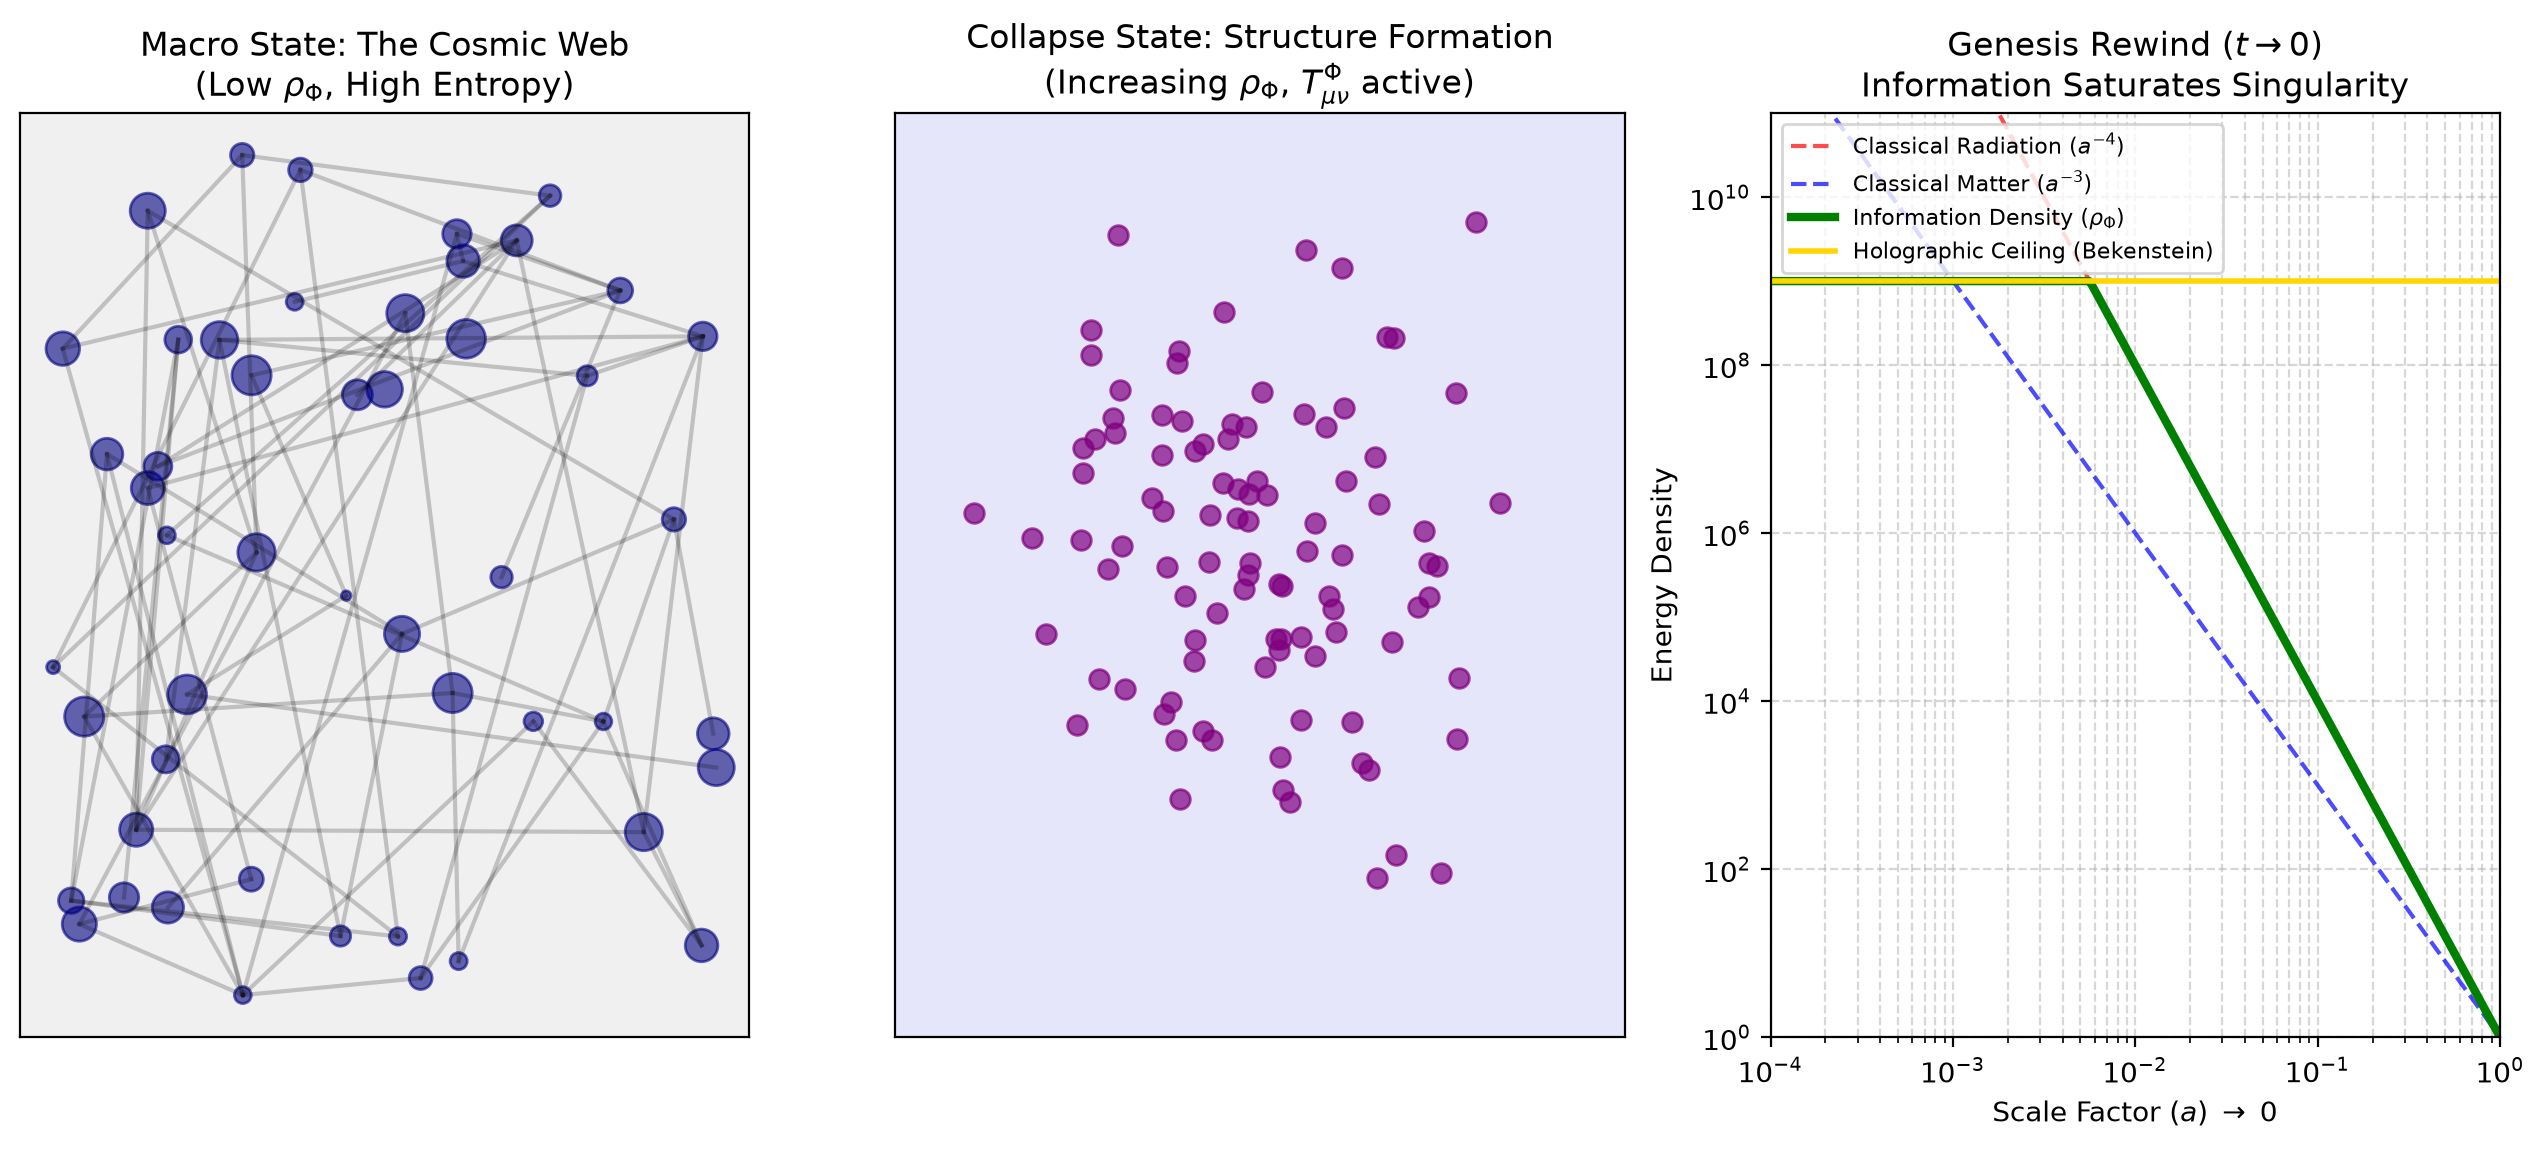
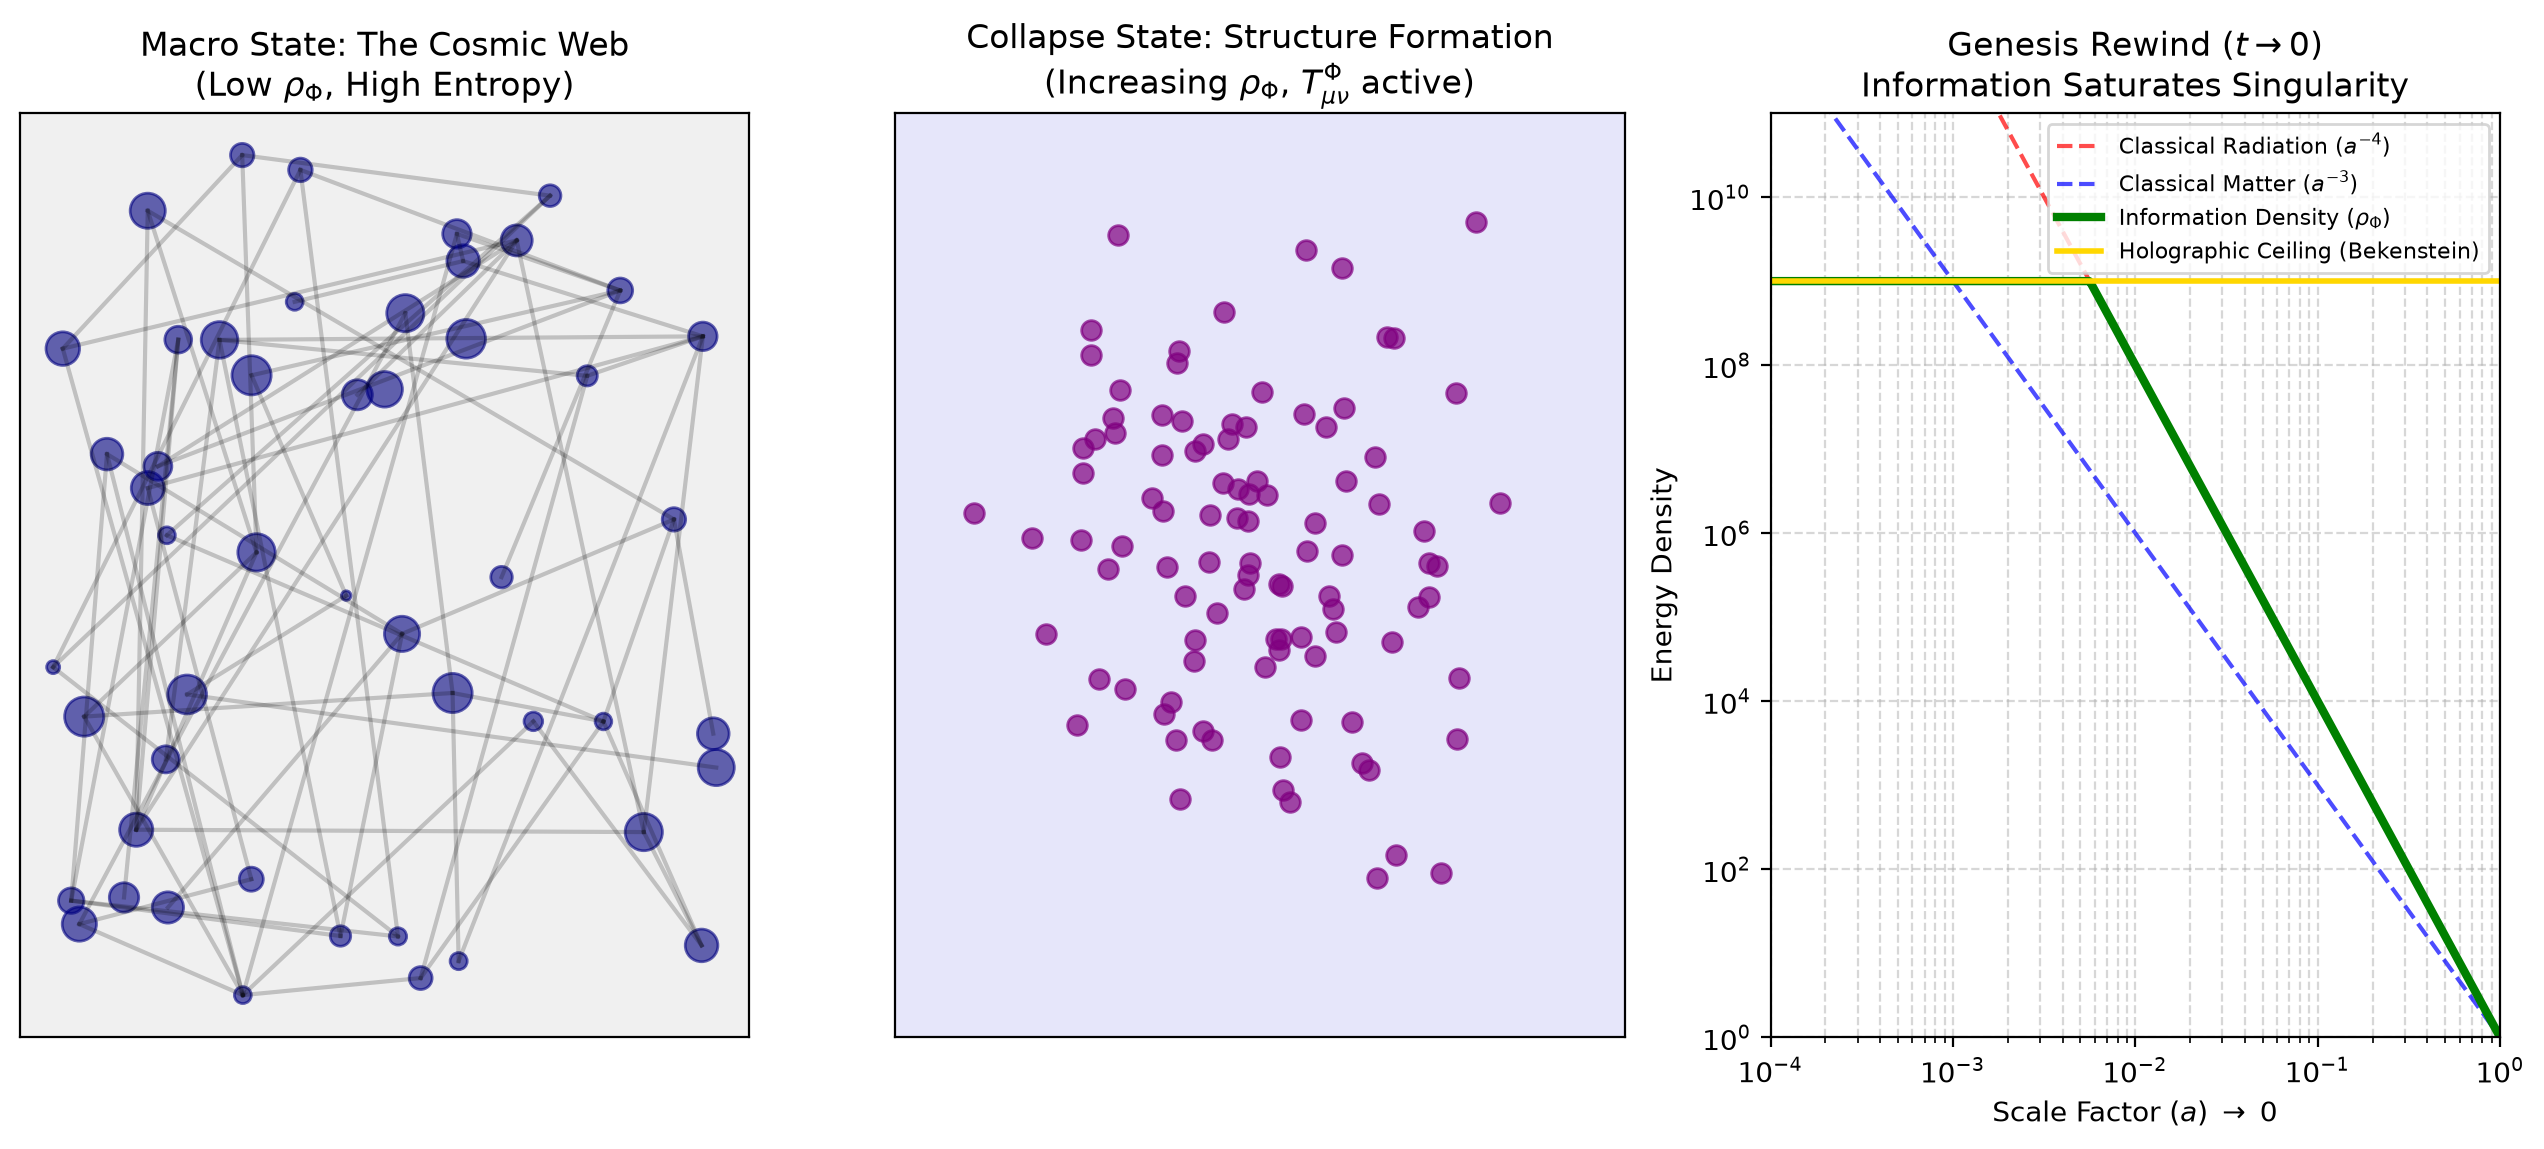
style: move holographic ceiling legend to upper right to avoid overlapping curves

Changed region(s): [[0.6832, 0.0914, 0.9937, 0.2437]]

diff --git a/holographic_ceiling.py b/holographic_ceiling.py
@@ -66,10 +66,11 @@ ax3.axhline(1e9, color='gold', linestyle='-', linewidth=2, label='Holographic Ce
 ax3.set_title("Genesis Rewind ($t \\to 0$)\nInformation Saturates Singularity", fontsize=12)
 ax3.set_xlabel("Scale Factor ($a$) $\\to$ 0")
 ax3.set_ylabel("Energy Density")
-ax3.legend(fontsize=8, loc='upper left')
+ax3.legend(fontsize=8, loc='upper right')
 ax3.set_xlim(1e-4, 1)
 ax3.set_ylim(1, 1e11)
 ax3.grid(True, which="both", ls="--", alpha=0.5)
+
 
 output_dir = Path(__file__).resolve().parent / 'assets' / 'images'
 output_dir.mkdir(parents=True, exist_ok=True)
